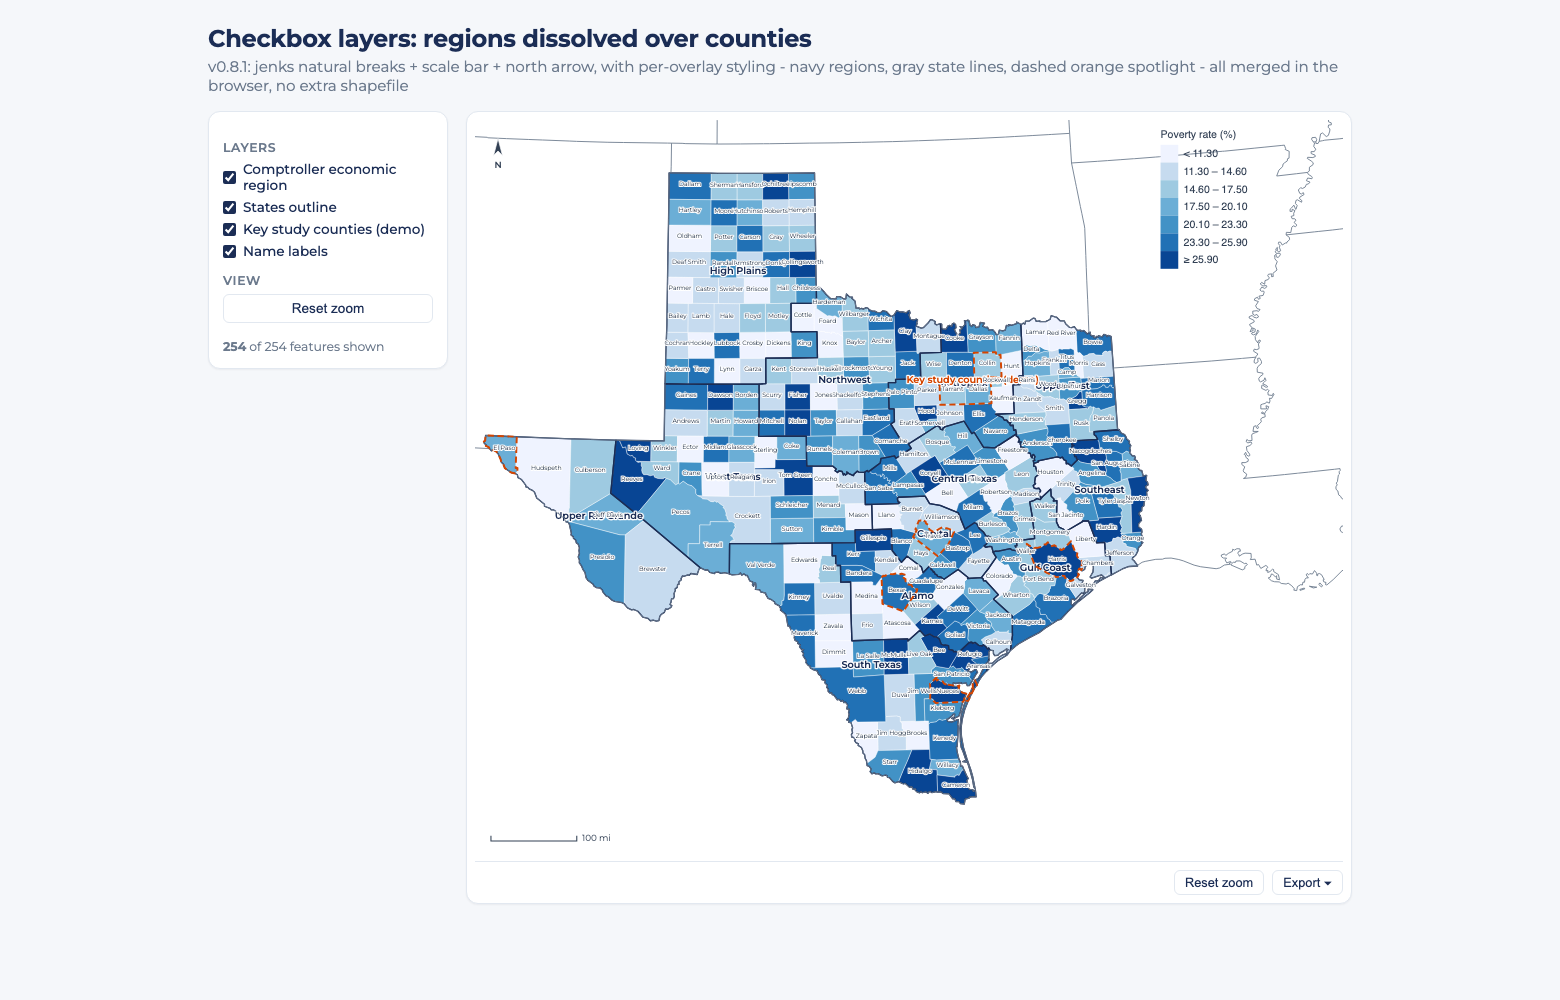
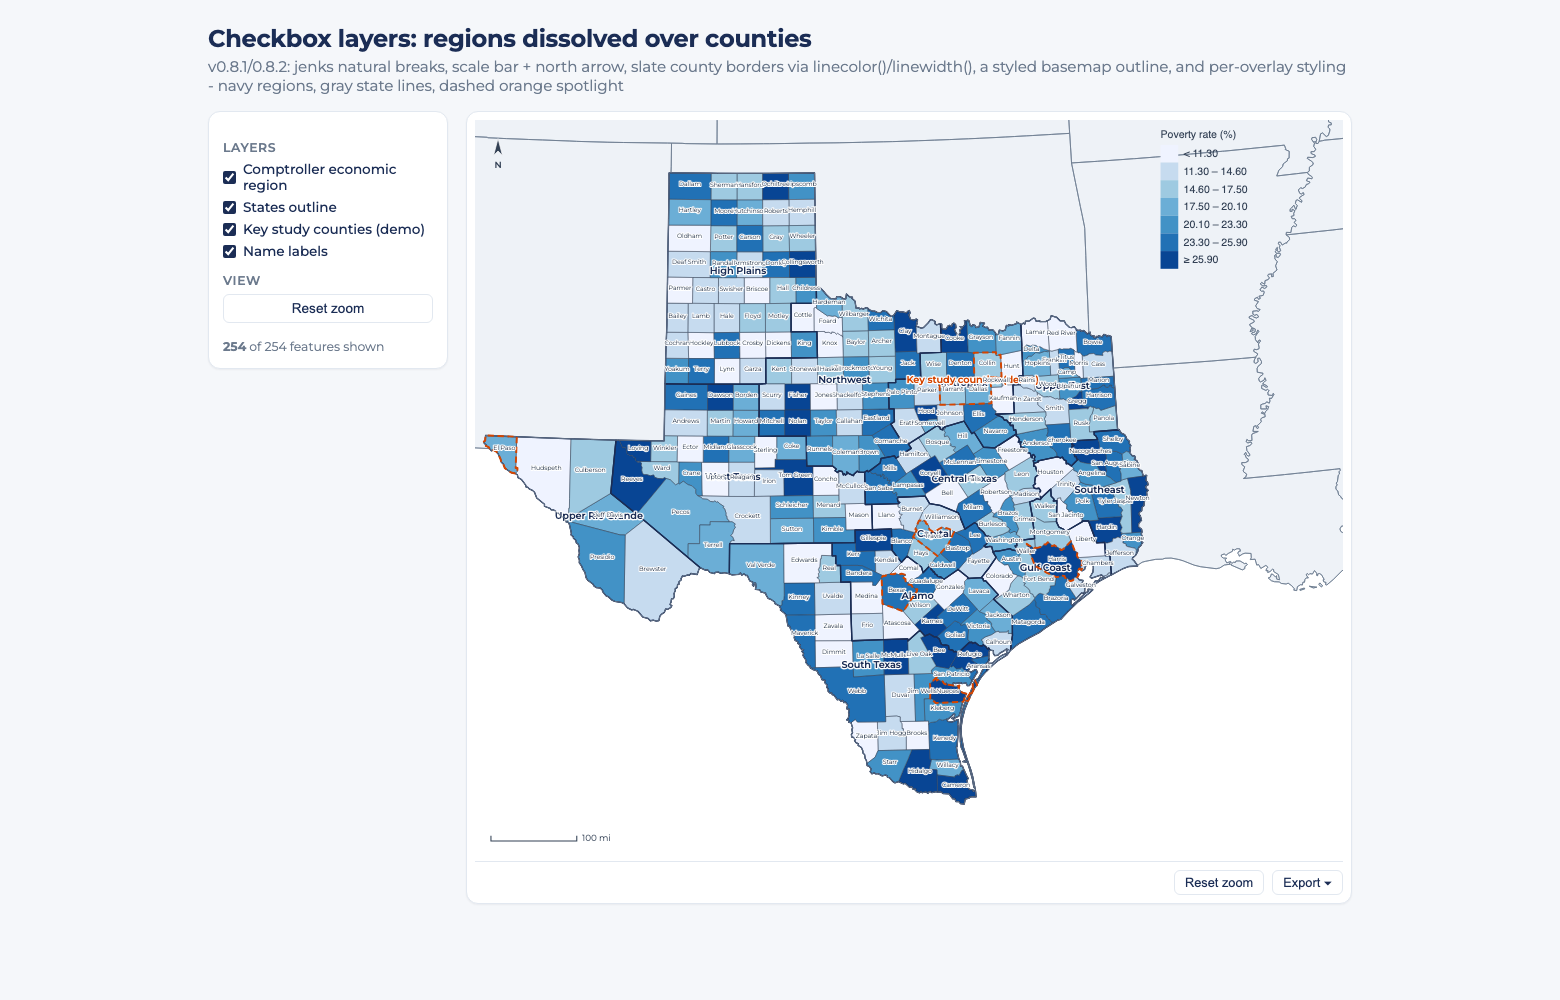
README: refresh hero screenshot with v0.8.2 boundary styling
Re-captured from the rebuilt s14 gallery demo: slate county borders via
linecolor()/linewidth() and the styled basemap outline now visible
alongside the jenks legend, furniture, and per-overlay styles.

diff --git a/README.md b/README.md
@@ -62,7 +62,7 @@ Two bundled Texas geographies: 254 counties (with 56 US states + nation as backd
 
 ![Jenks-classified county choropleth with variable-label legend, north arrow, zoom-aware miles scale bar, and independently styled overlay layers (navy regions, gray state lines, dashed orange key-county spotlight)](assets/sparkta2_v081_preview.png)
 
-*One frame, most of v0.8.1: `classes(jenks)` cuts in the legend, which is now titled by the variable label; north arrow and a zoom-aware miles scale bar; three overlay layers styled independently via `overlaycolors()/overlaywidths()/overlaydash()`; Export pinned bottom-right with `downloadpos(below)`.*
+*One frame, most of v0.8.1–v0.8.2: `classes(jenks)` cuts in the legend, which is now titled by the variable label; north arrow and a zoom-aware miles scale bar; three overlay layers styled independently via `overlaycolors()/overlaywidths()/overlaydash()`; slate county borders via `linecolor()/linewidth()` over a `basemapcolor()`-styled backdrop (v0.8.2); Export pinned bottom-right with `downloadpos(below)`.*
 
 #### Classification control — `classes()` and `breaks()`
 
